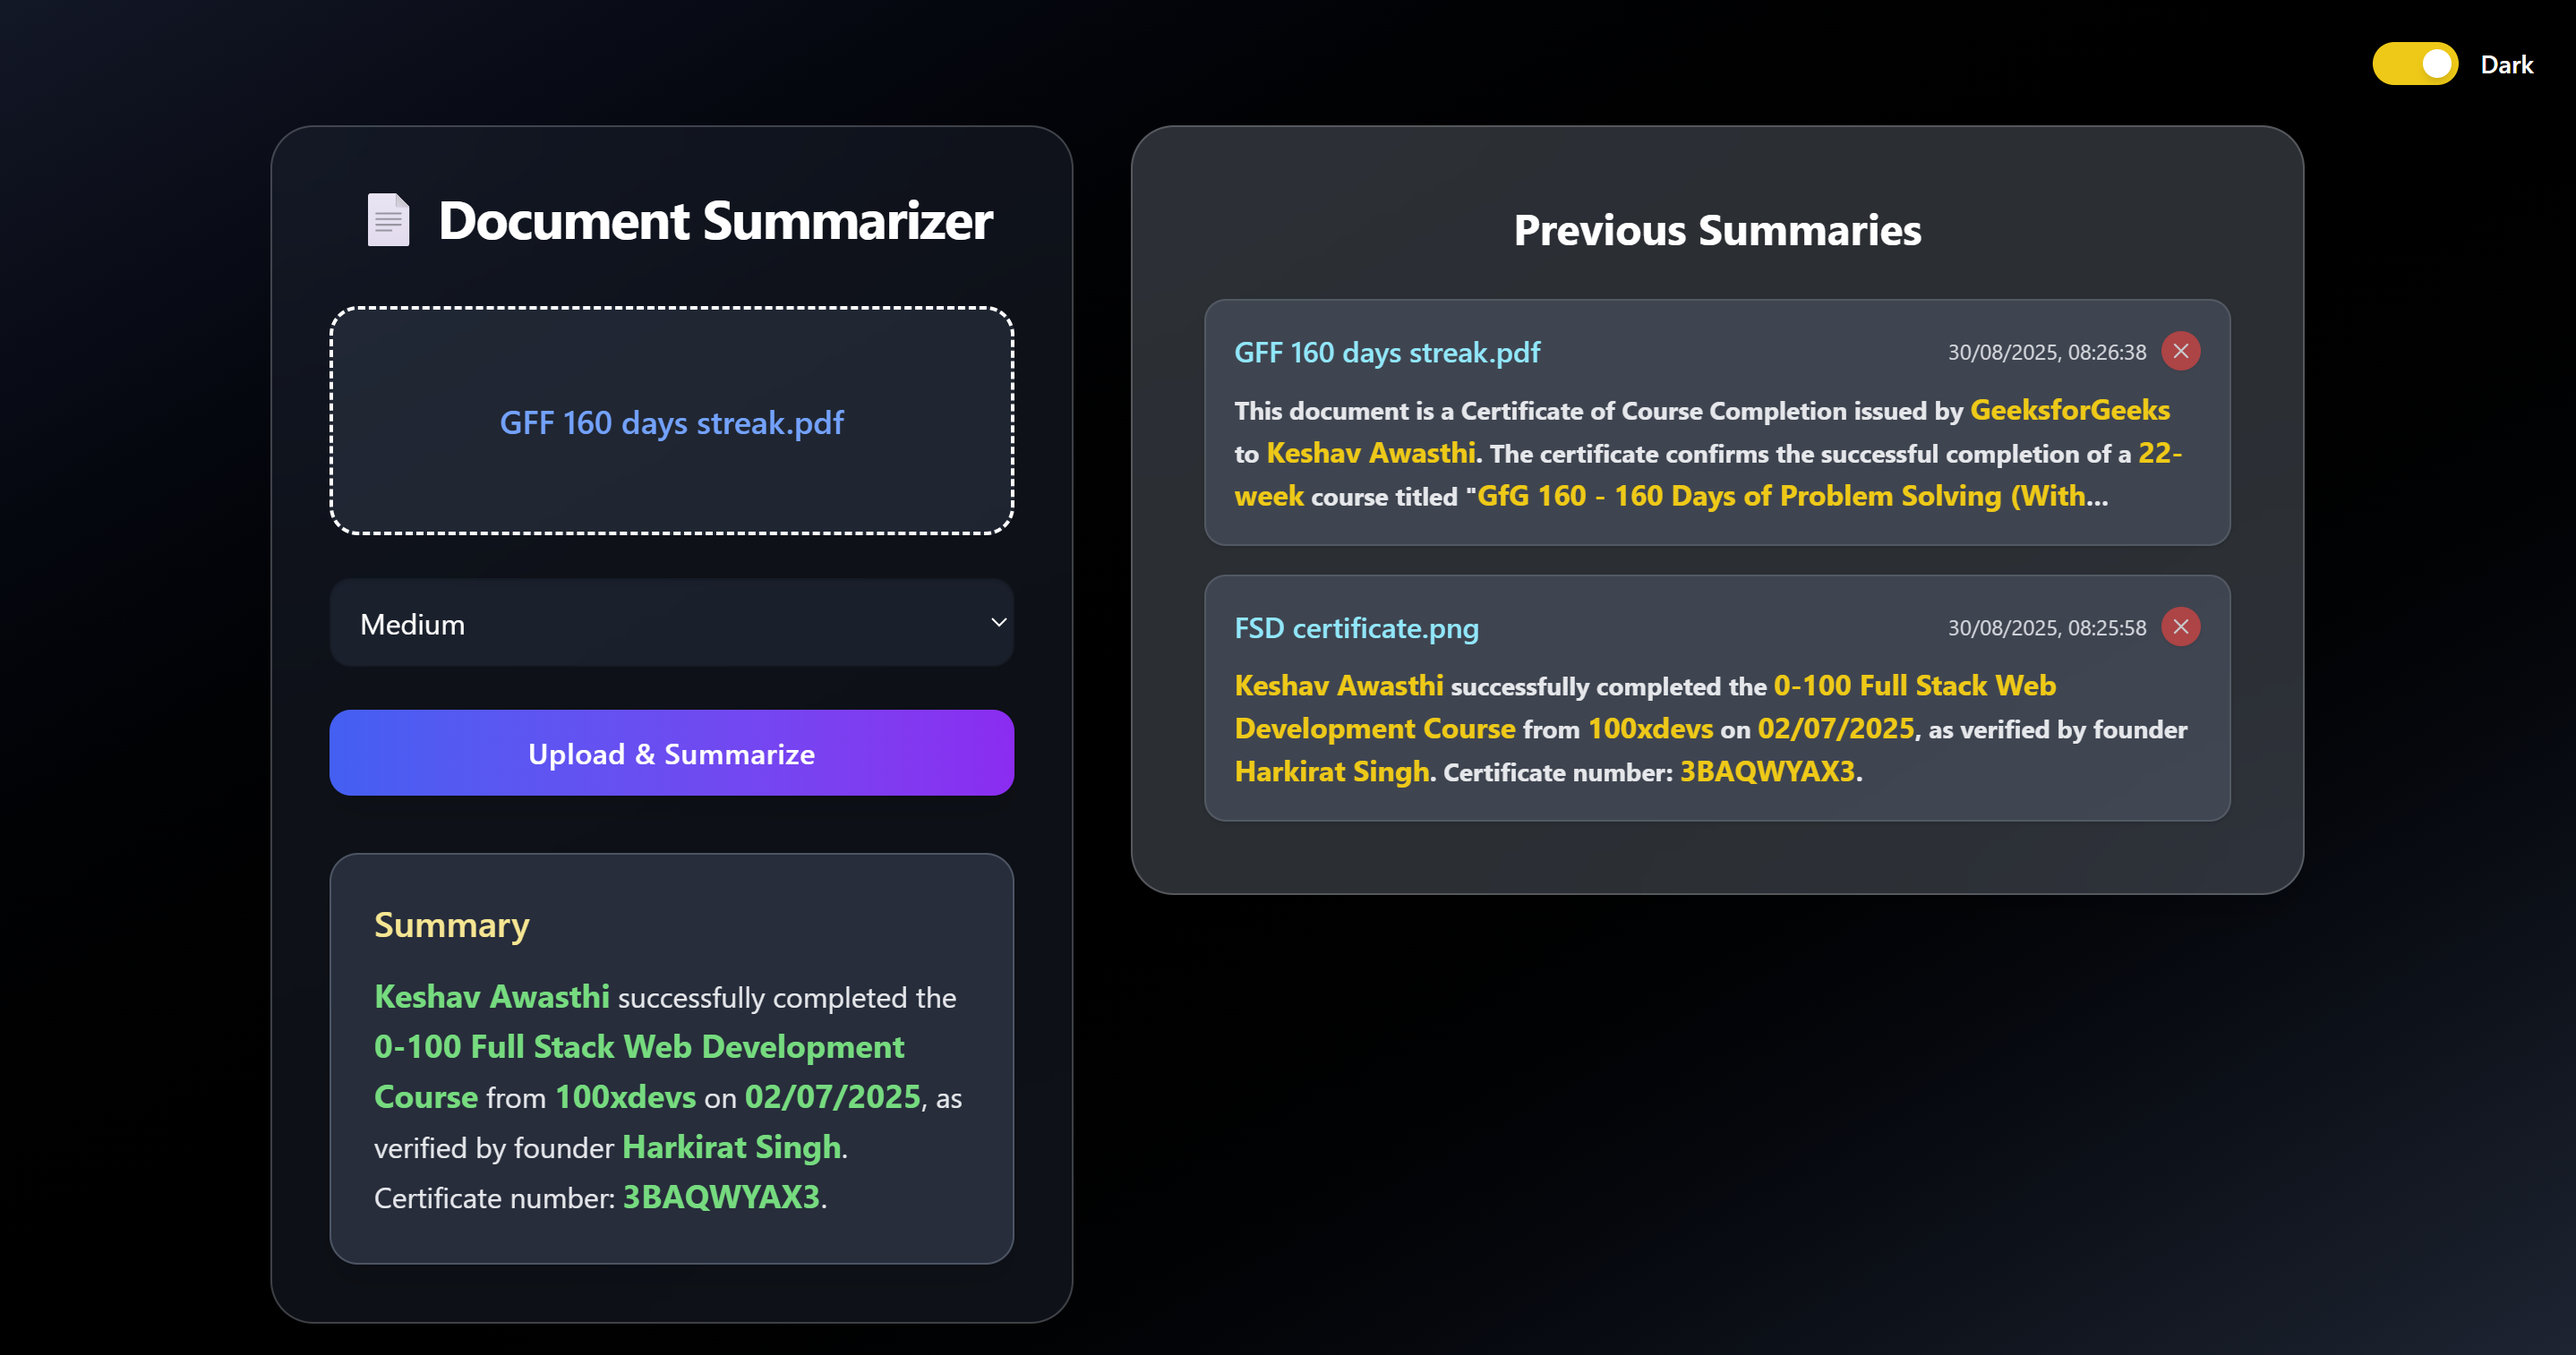
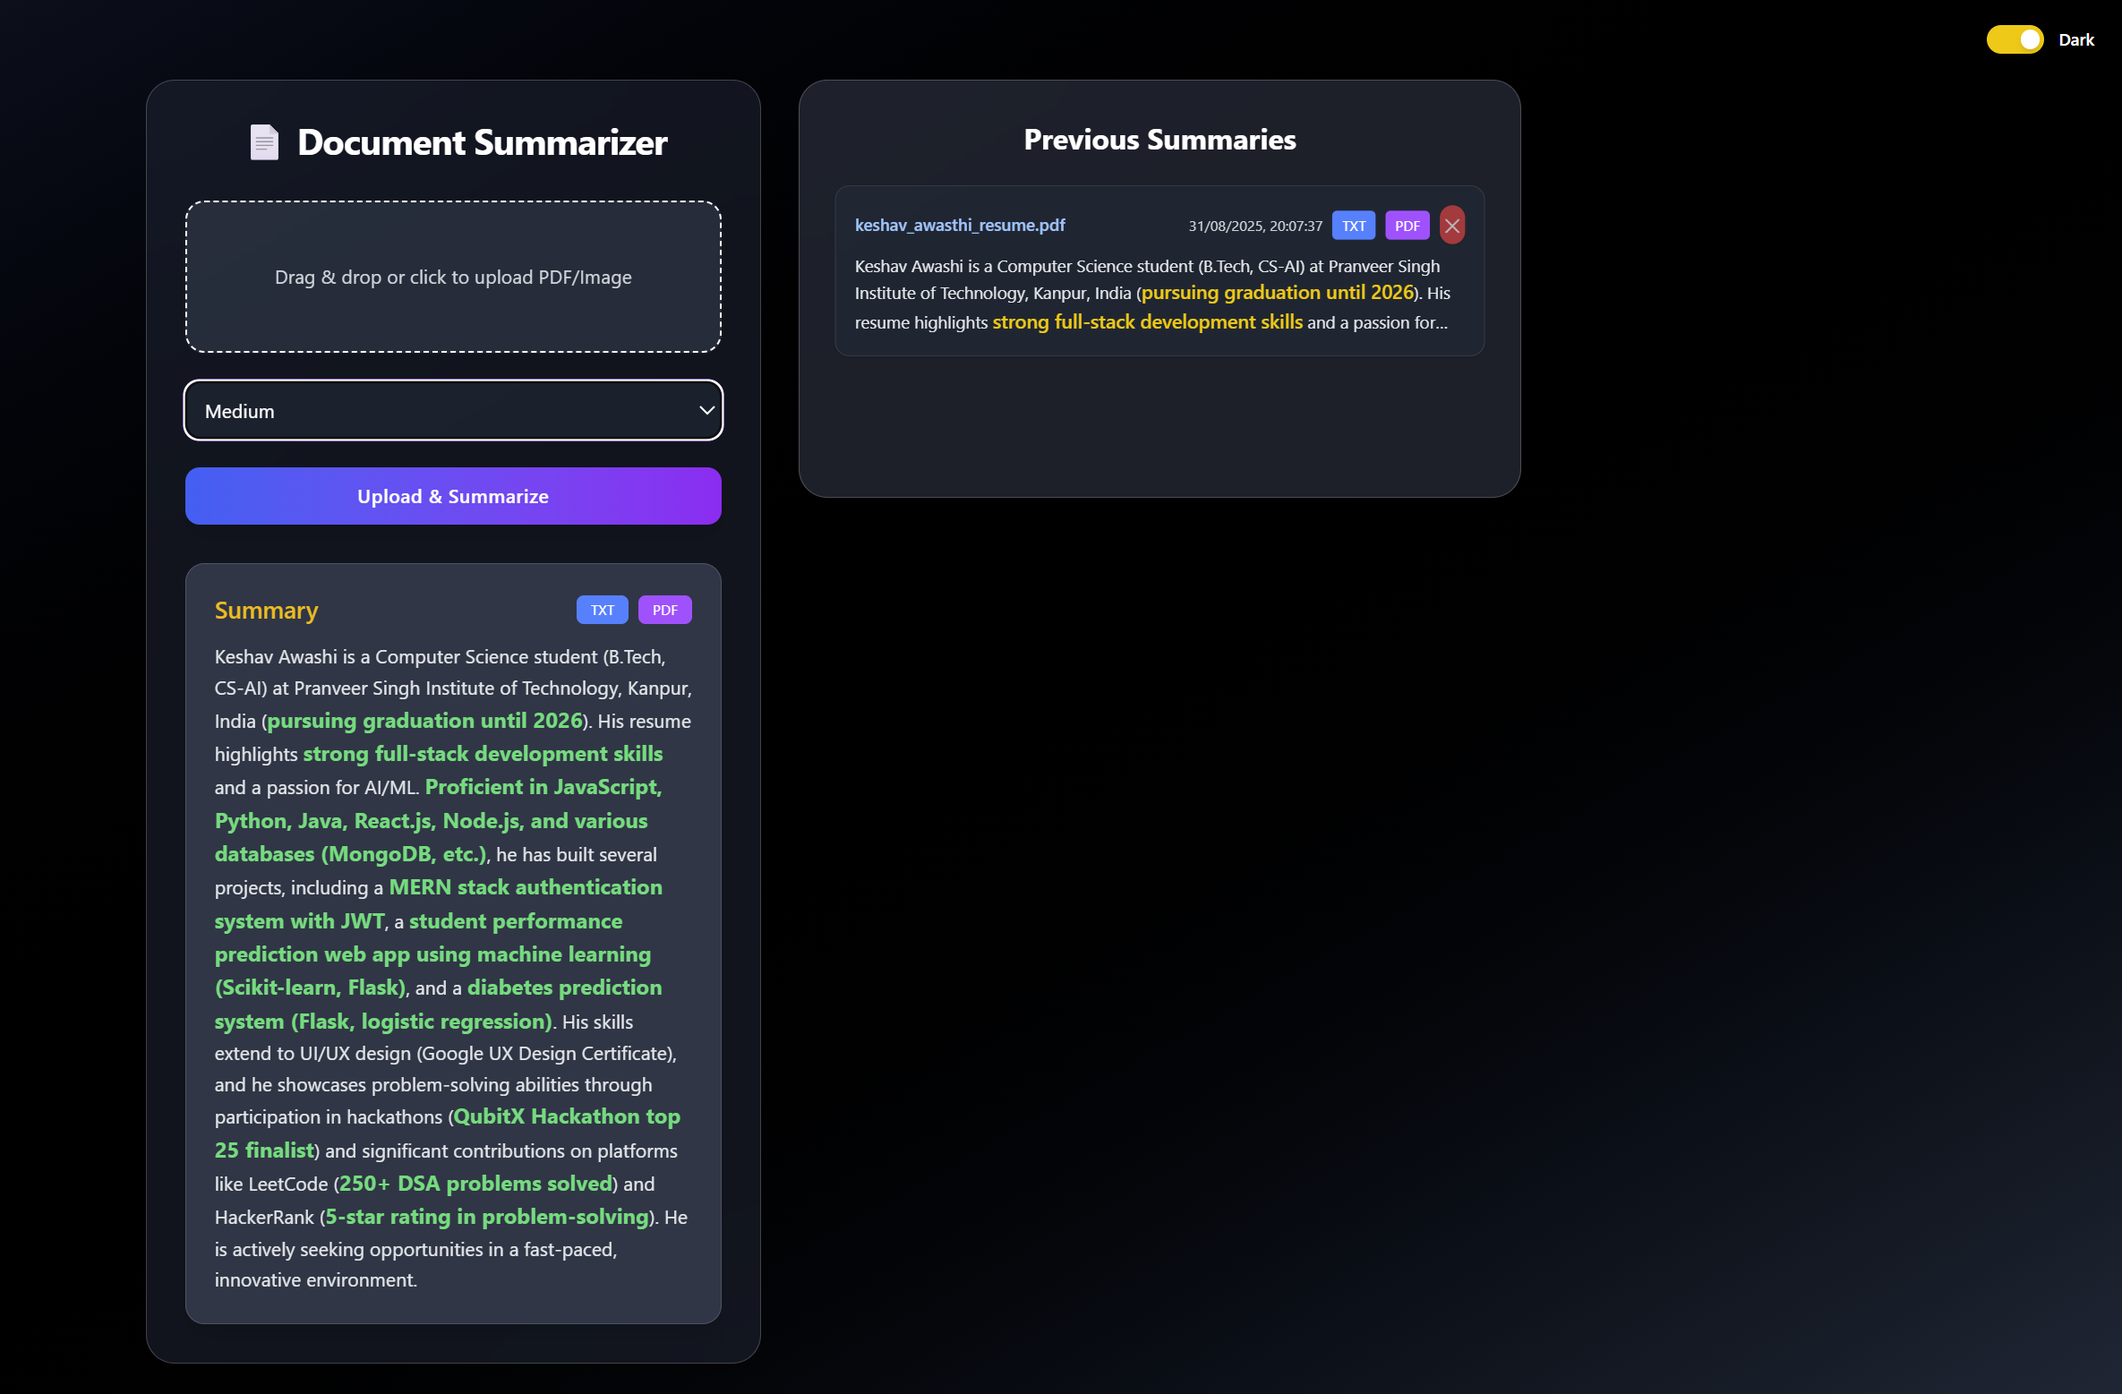
Add download summary feature to README files and update assets

diff --git a/frontend/README.md b/frontend/README.md
@@ -16,6 +16,7 @@ Features a beautiful Carbon Glass UI, dark/light mode toggle, and local history 
 - **Upload PDF or Image**: Drag & drop or select files for instant summarization.
 - **AI Summarization**: Uses Gemini AI (via backend) to generate concise summaries.
 - **Carbon Glass UI**: Stunning glassmorphism design inspired by Carbon theme.
+- **Download Summary**: Download any generated summary (new or previous) as a **PDF** or **Text** file with a single click.
 - **Dark/Light Mode**: Toggle between elegant dark and light themes.
 - **History Panel**: View, select, and delete previous summaries (stored in browser localStorage).
 - **Responsive Design**: Works beautifully on desktop and mobile.

diff --git a/README.md b/README.md
@@ -43,6 +43,7 @@ Doc_summery-assistant/
 - **AI Summarization**: Uses **Gemini AI** via backend for concise and intelligent summaries.
 - **In-Memory File Handling**: No uploads saved on disk (`multer.memoryStorage`), making it cloud-friendly.
 - **Carbon Glass UI**: Beautiful glassmorphism design inspired by Carbon theme.
+- **Download Summary**: Download any generated summary (new or previous) as a **PDF** or **Text** file with a single click.
 - **Dark/Light Mode**: Elegant theme toggle.
 - **History Panel**: View, select, and delete previous summaries (stored in **browser localStorage**).
 - **Responsive Design**: Works beautifully on desktop and mobile.
